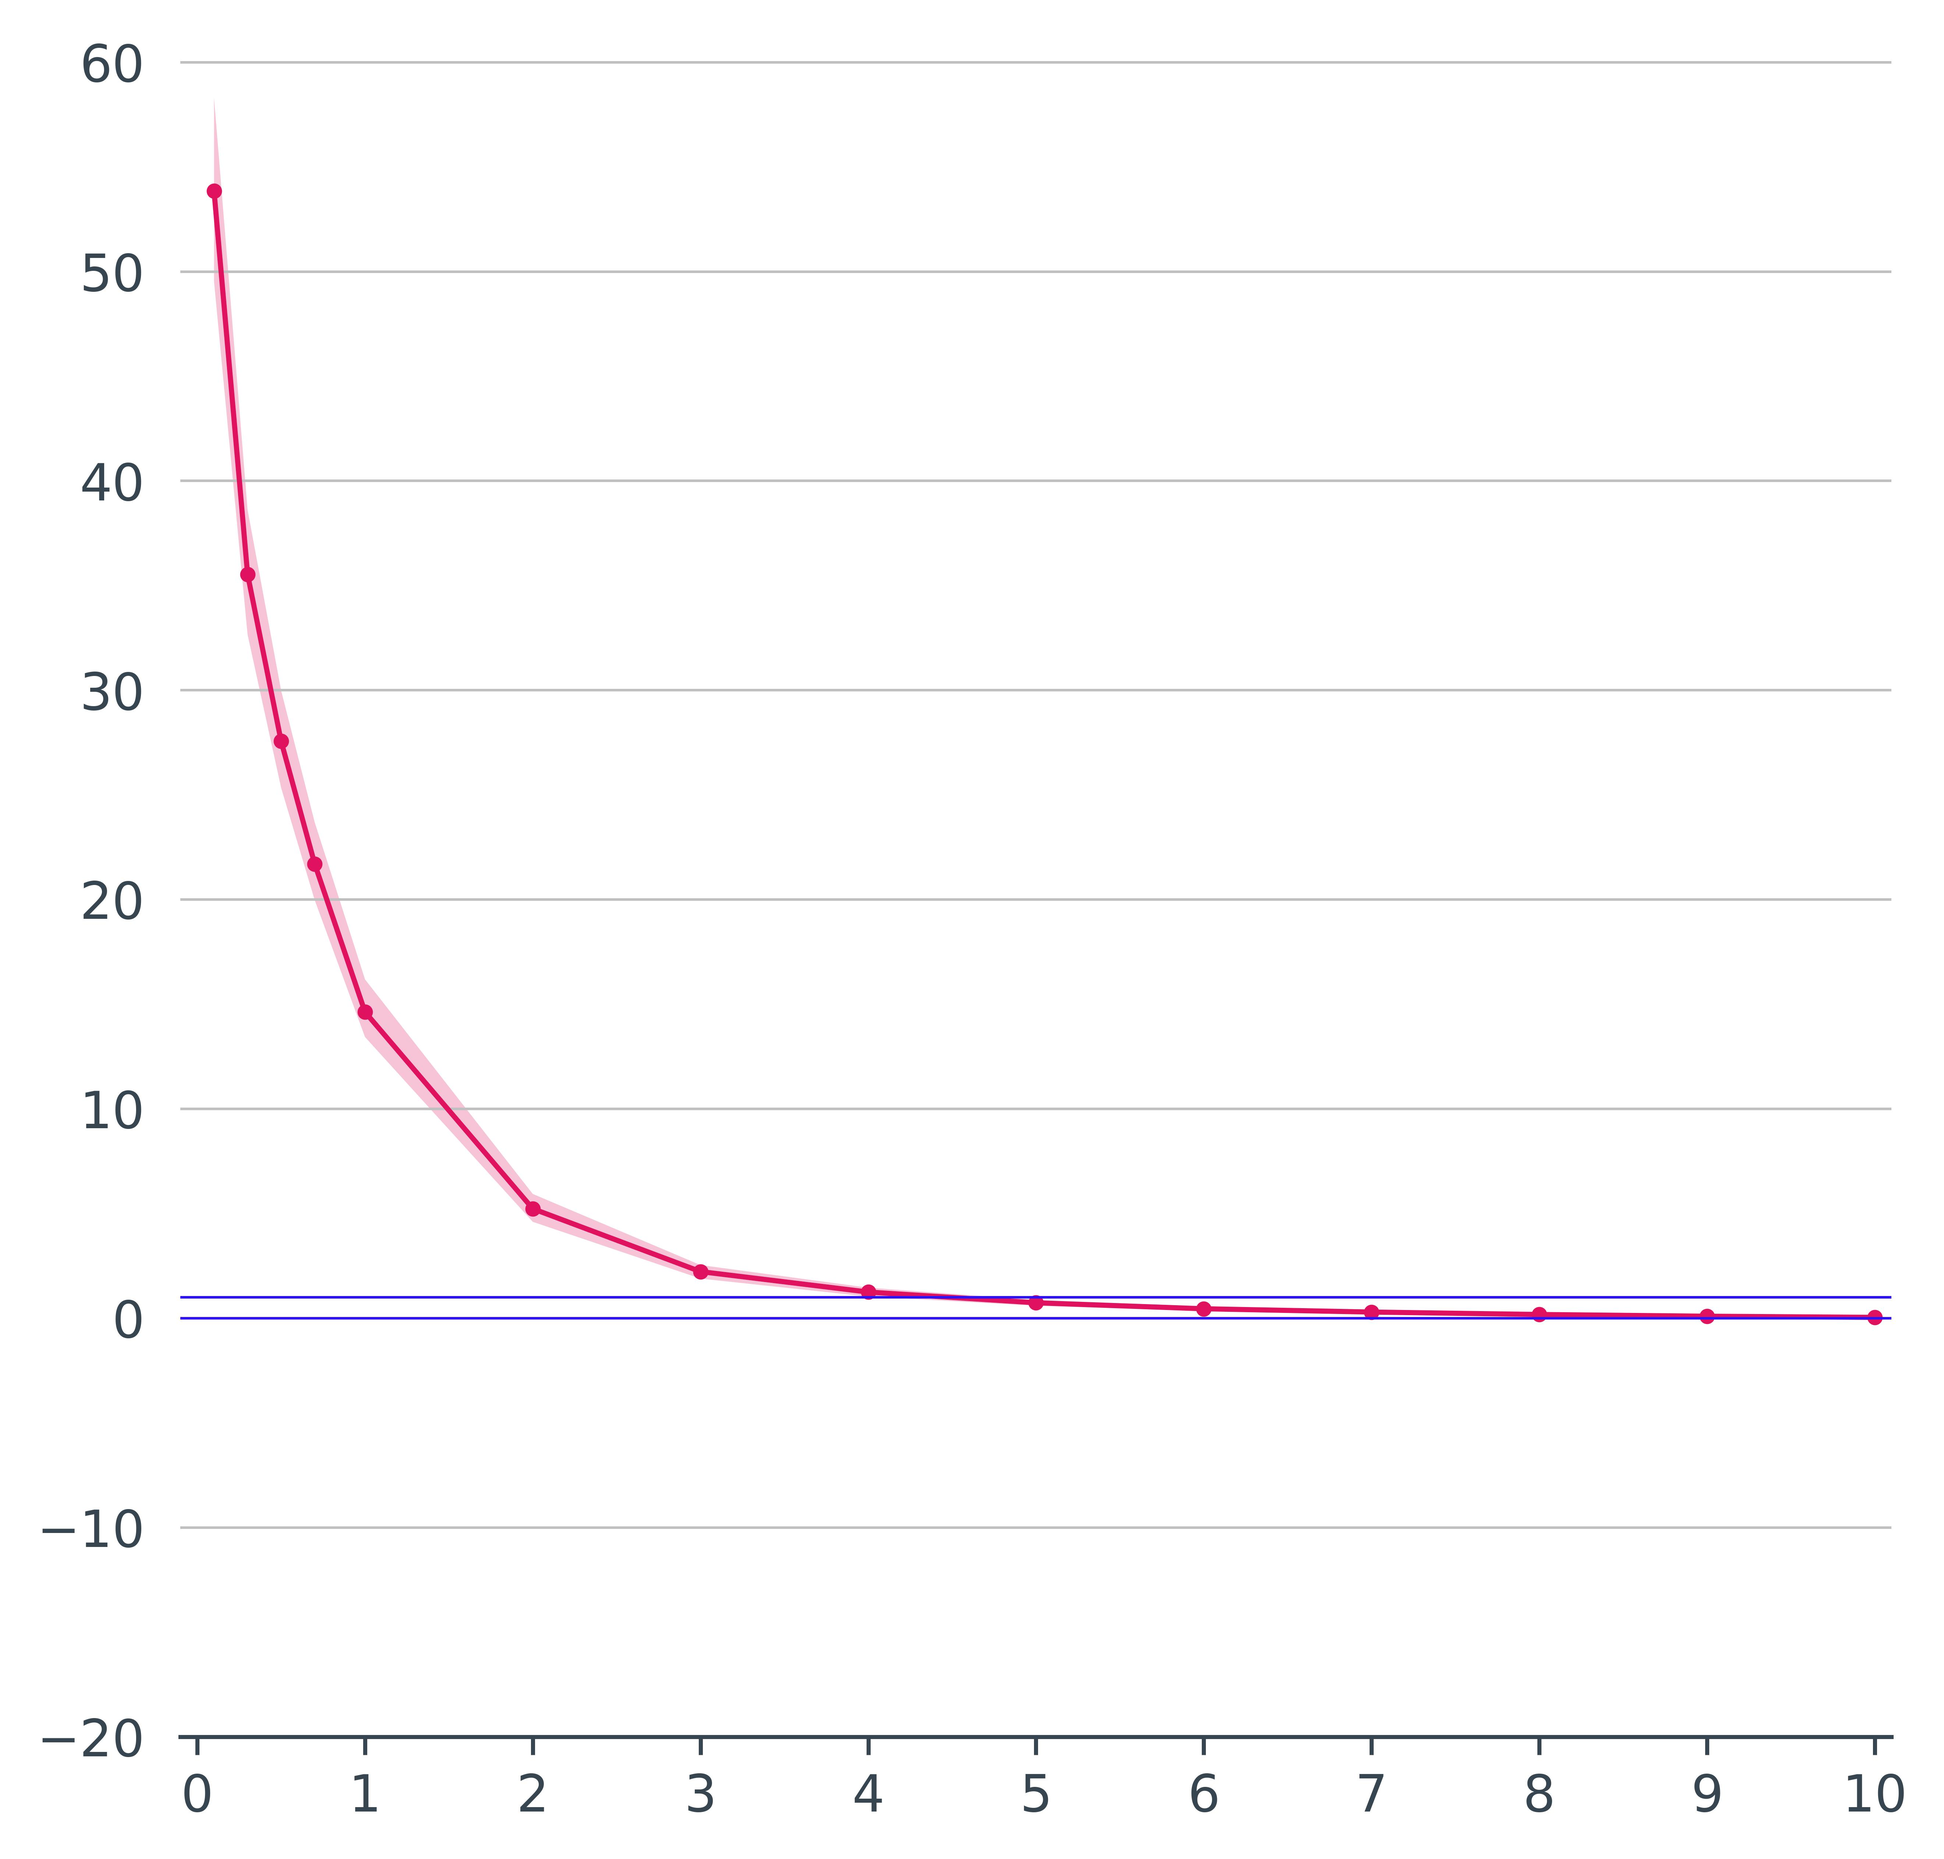
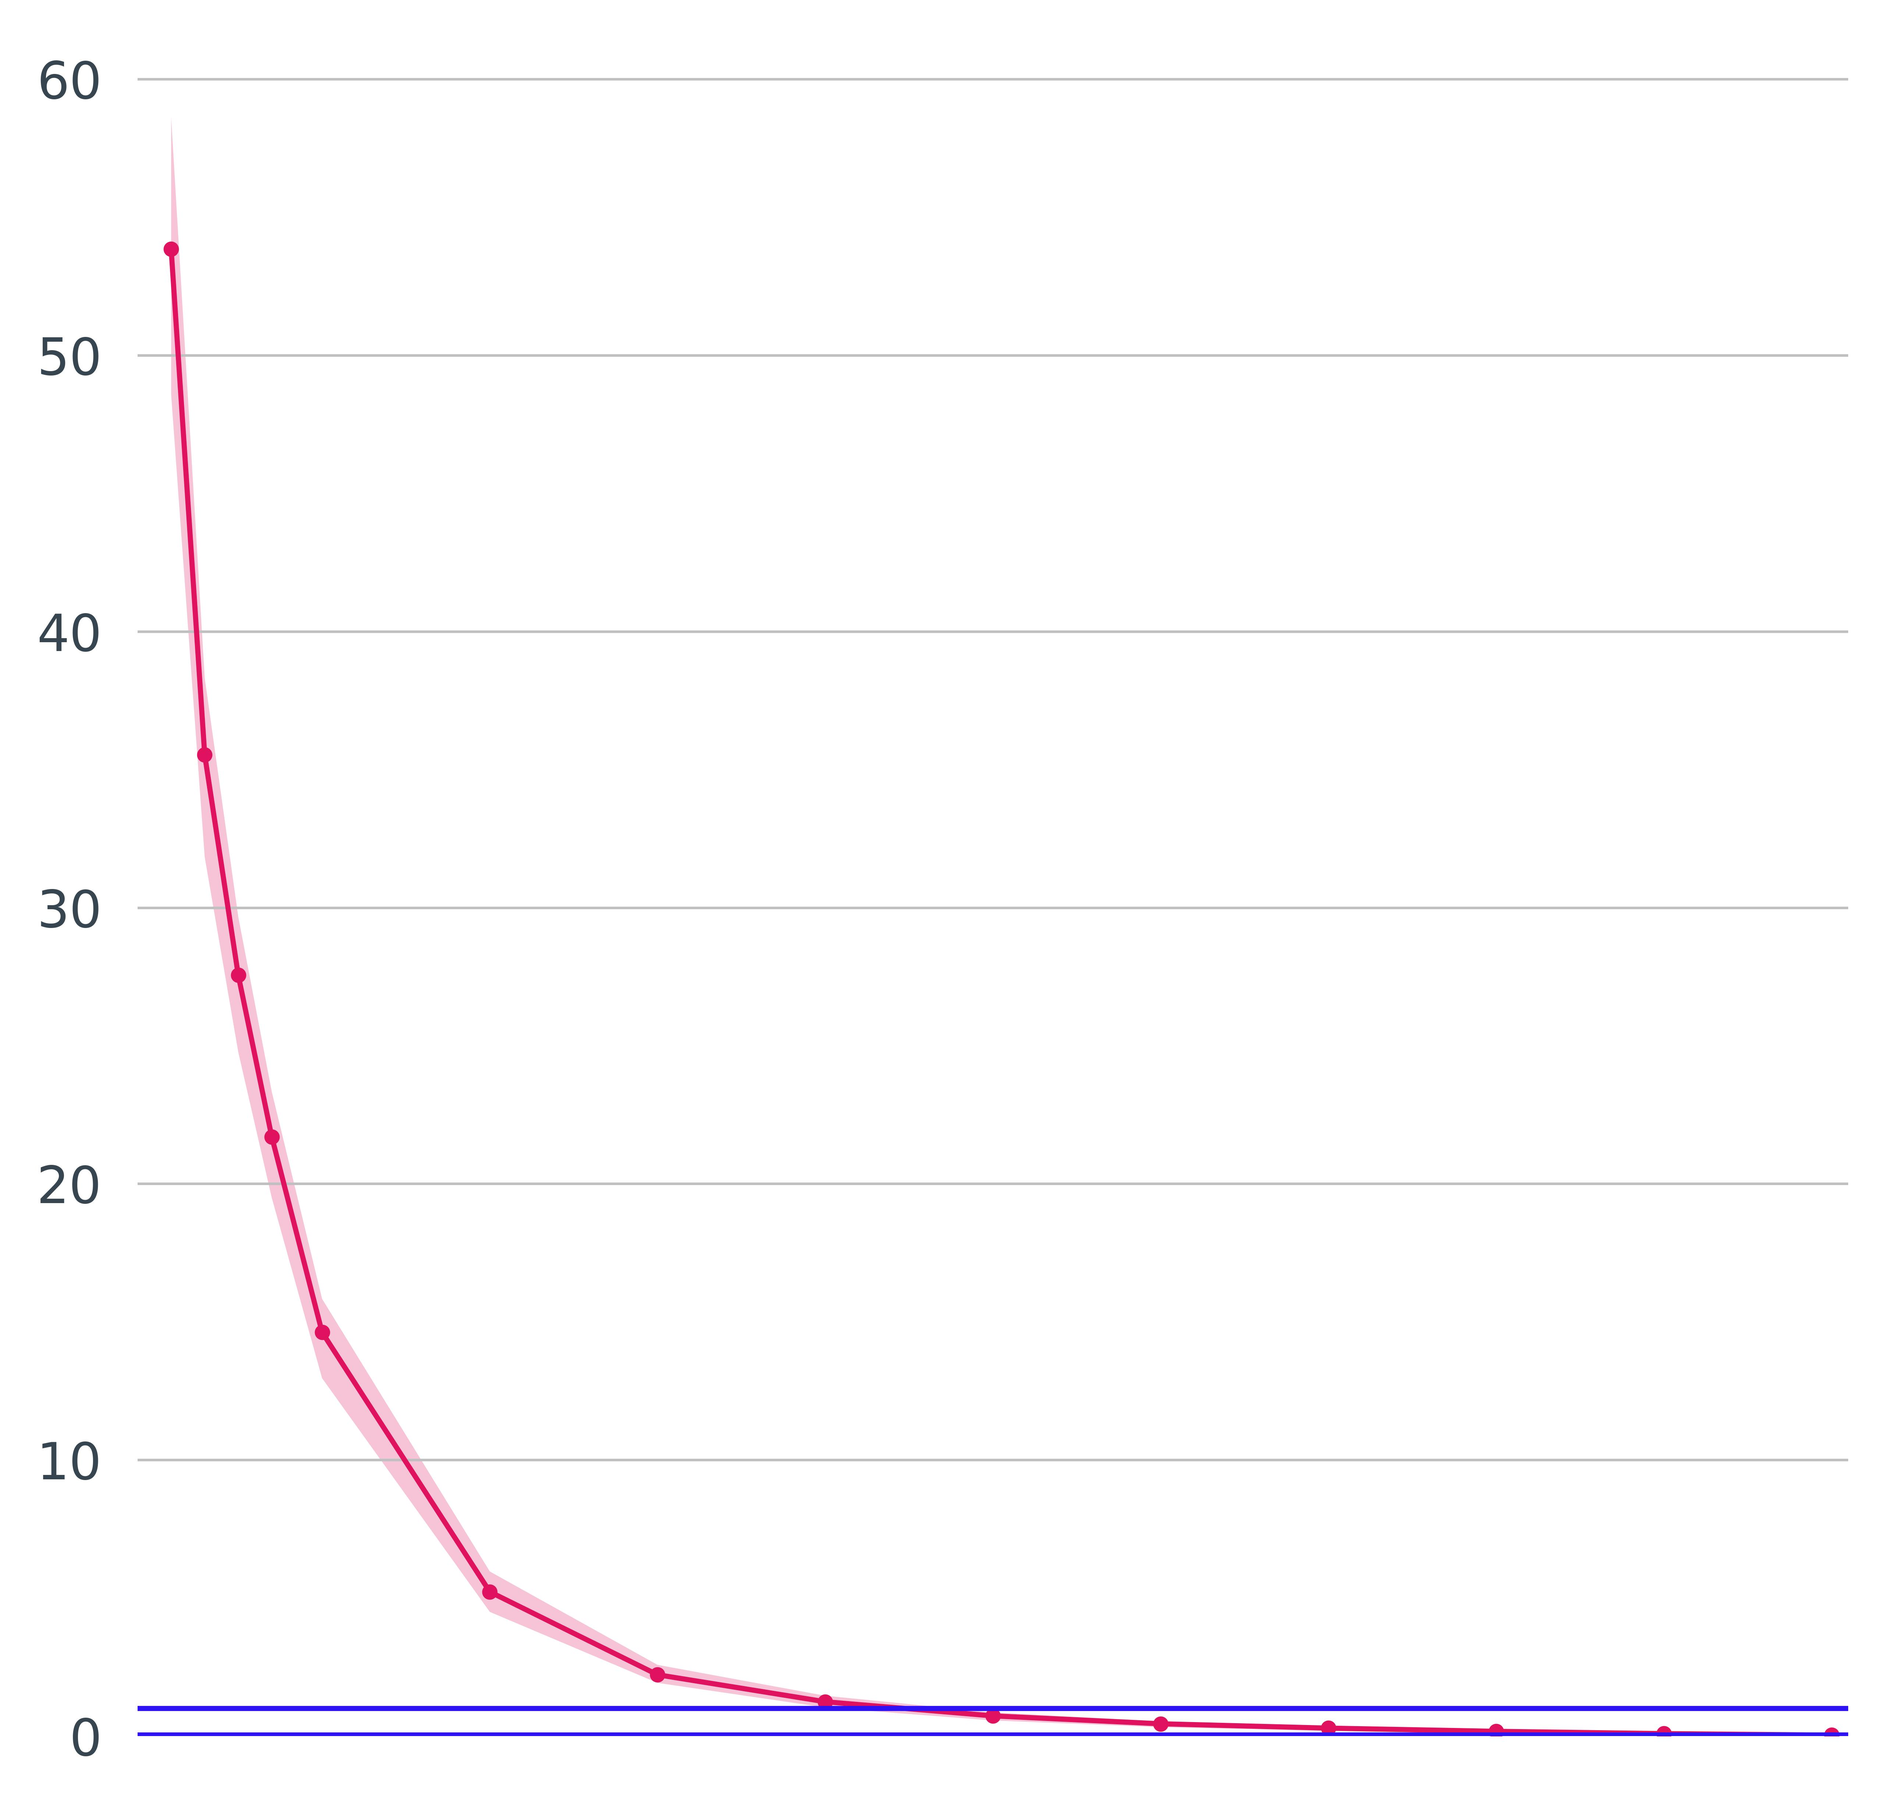
Added the computed score plots.

diff --git a/Scripts/Processed/36_Plot_Verif_Scores.py b/Scripts/Processed/36_Plot_Verif_Scores.py
@@ -11,7 +11,7 @@ from matplotlib.patches import PathPatch
 ##################################################################################################################
 # CODE DESCRIPTION
 # 36_Plot_Verif_Scores.py computes the contingency tables for specific accumulation periods.  
-# Runtime: the script can take up to 10 hours to compute in serial.
+# Runtime: the script can take up to 15 hours to compute in serial.
 
 # INPUT PARAMETERS DESCRIPTION
 # TheDateTime_Start_S (date): start date of the beginning accumulation period to consider.
@@ -31,7 +31,7 @@ TheDateTime_Start_S = datetime(2021, 1, 1, 0)
 TheDateTime_Start_F = datetime(2023, 12, 31, 12)
 Acc = 12
 Disc_Acc = 12
-Num_BS = 100
+Num_BS = 1000
 CL = 99
 Thr_list = [0.1, 0.3, 0.5, 0.7, 1, 2, 3, 4, 5, 6, 7, 8, 9, 10]
 Git_Repo = "/ec/vol/ecpoint_dev/mofp/Papers_2_Write/Use_FlashFloodsRep_4Verif_USA"
@@ -225,7 +225,7 @@ plt.xlim([-0.005, 1])
 ax.set_xticks(np.arange(0, 1.1, 0.1))
 plt.ylim([-0.005,1])
 ax.set_yticks(np.arange(0, 1.1, 0.1))
-plt.plot([0,1], [0,1], "-", color="#2F11F5", linewidth=0.5)
+plt.plot([0,1], [0,1], "-", color="#2F11F5", linewidth=1.5)
 
 ax.add_patch(patch)
 
@@ -252,19 +252,18 @@ plt.fill_between(Thr_list, lower_error, upper_error, color="#E0115F", alpha=0.25
 
 ax = plt.gca()
 ax.spines["top"].set_visible(False)
-ax.spines["bottom"].set_color("#36454F")
+ax.spines["bottom"].set_visible(False)
 ax.spines["left"].set_visible(False)
 ax.spines["right"].set_visible(False)
-plt.tick_params(left=False, right=False, top=False)
-ax.tick_params(axis="x", colors="#36454F")
+plt.tick_params(left=False, right=False, top=False, bottom=False)
 ax.tick_params(axis="y", colors="#36454F")
 
 plt.xlim([-0.1, np.max(Thr_list) + 0.1])
-ax.set_xticks(np.arange(0, np.max(Thr_list) + 1))
+ax.set_xticks([])
 
-ax.set_ylim(bottom=-20)
-plt.plot([-0.1,np.max(Thr_list) + 0.1], [1,1], "-", color="#2F11F5", linewidth=0.5)
-plt.plot([-0.1,np.max(Thr_list) + 0.1], [0,0], "-", color="#2F11F5", linewidth=0.5)
+ax.set_ylim(bottom = 0)
+plt.plot([-0.1,np.max(Thr_list) + 0.1], [1,1], "-", color="#2F11F5", linewidth=1)
+plt.plot([-0.1,np.max(Thr_list) + 0.1], [0,0], "-", color="#2F11F5", linewidth=1.5)
 
 plt.grid(axis="y", color="silver", linewidth=0.5)
 
@@ -289,18 +288,18 @@ plt.fill_between(Thr_list, lower_error, upper_error, color="#E0115F", alpha=0.25
 
 ax = plt.gca()
 ax.spines["top"].set_visible(False)
-ax.spines["bottom"].set_color("#36454F")
+ax.spines["bottom"].set_visible(False)
 ax.spines["left"].set_visible(False)
 ax.spines["right"].set_visible(False)
-plt.tick_params(left=False, right=False, top=False)
-ax.tick_params(axis="x", colors="#36454F")
+plt.tick_params(left=False, right=False, top=False, bottom=False)
 ax.tick_params(axis="y", colors="#36454F")
 
 plt.xlim([-0.1, np.max(Thr_list) + 0.1])
-ax.set_xticks(np.arange(0, np.max(Thr_list) + 1))
+ax.set_xticks([])
 
-ax.set_ylim(bottom=-1)
-plt.plot([-0.1,np.max(Thr_list) + 0.1], [0,0], "-", color="#2F11F5", linewidth=0.5)
+plt.ylim([-1, 1])
+ax.set_yticks(np.arange(-1, 1.1, 0.2))
+plt.plot([-0.1,np.max(Thr_list) + 0.1], [0,0], "-", color="#2F11F5", linewidth=1)
 
 plt.grid(axis="y", color="silver", linewidth=0.5)
 
@@ -325,21 +324,20 @@ plt.fill_between(Thr_list, lower_error, upper_error, color="#E0115F", alpha=0.25
 
 ax = plt.gca()
 ax.spines["top"].set_visible(False)
-ax.spines["bottom"].set_color("#36454F")
+ax.spines["bottom"].set_visible(False)
 ax.spines["left"].set_visible(False)
 ax.spines["right"].set_visible(False)
 plt.tick_params(left=False, right=False, top=False)
-ax.tick_params(axis="x", colors="#36454F")
 ax.tick_params(axis="y", colors="#36454F")
 
 plt.xlim([-0.1, np.max(Thr_list) + 0.1])
-ax.set_xticks(np.arange(0, np.max(Thr_list) + 1))
+ax.set_xticks([])
 
-plt.ylim([-0.49,1])
-ax.set_yticks(np.arange(-0.3, 1.1, 0.2))
-plt.plot([-0.1,np.max(Thr_list) + 0.1], [1,1], "-", color="#2F11F5", linewidth=0.5)
-plt.plot([-0.1,np.max(Thr_list) + 0.1], [0,0], "-", color="#2F11F5", linewidth=0.5)
-plt.plot([-0.1,np.max(Thr_list) + 0.1], [-1/3,-1/3], "-", color="#2F11F5", linewidth=0.5)
+plt.ylim([-1,1])
+ax.set_yticks(np.arange(-1, 1.1, 0.2))
+plt.plot([-0.1,np.max(Thr_list) + 0.1], [1,1], "-", color="#2F11F5", linewidth=1.5)
+plt.plot([-0.1,np.max(Thr_list) + 0.1], [0,0], "-", color="#2F11F5", linewidth=1)
+plt.plot([-0.1,np.max(Thr_list) + 0.1], [-1/3,-1/3], "-", color="#2F11F5", linewidth=1)
 
 plt.grid(axis="y", color="silver", linewidth=0.5)
 
@@ -364,21 +362,20 @@ plt.fill_between(Thr_list, lower_error, upper_error, color="#E0115F", alpha=0.25
 
 ax = plt.gca()
 ax.spines["top"].set_visible(False)
-ax.spines["bottom"].set_color("#36454F")
+ax.spines["bottom"].set_visible(False)
 ax.spines["left"].set_visible(False)
 ax.spines["right"].set_visible(False)
 plt.tick_params(left=False, right=False, top=False)
-ax.tick_params(axis="x", colors="#36454F")
 ax.tick_params(axis="y", colors="#36454F")
 
 plt.xlim([-0.1, np.max(Thr_list) + 0.1])
-ax.set_xticks(np.arange(0, np.max(Thr_list) + 1))
+ax.set_xticks([])
 
-plt.ylim([-1.2,1.1])
-ax.set_yticks(np.arange(-0.9, 1, 0.2))
-plt.plot([-0.1,np.max(Thr_list) + 0.1], [1,1], "-", color="#2F11F5", linewidth=0.5)
-plt.plot([-0.1,np.max(Thr_list) + 0.1], [0,0], "-", color="#2F11F5", linewidth=0.5)
-plt.plot([-0.1,np.max(Thr_list) + 0.1], [-1,-1], "-", color="#2F11F5", linewidth=0.5)
+plt.ylim([-1,1])
+ax.set_yticks(np.arange(-1, 1.1, 0.2))
+plt.plot([-0.1,np.max(Thr_list) + 0.1], [1,1], "-", color="#2F11F5", linewidth=1.5)
+plt.plot([-0.1,np.max(Thr_list) + 0.1], [0,0], "-", color="#2F11F5", linewidth=1)
+plt.plot([-0.1,np.max(Thr_list) + 0.1], [-1,-1], "-", color="#2F11F5", linewidth=2)
 
 plt.grid(axis="y", color="silver", linewidth=0.5)
 
@@ -403,21 +400,20 @@ plt.fill_between(Thr_list, lower_error, upper_error, color="#E0115F", alpha=0.25
 
 ax = plt.gca()
 ax.spines["top"].set_visible(False)
-ax.spines["bottom"].set_color("#36454F")
+ax.spines["bottom"].set_visible(False)
 ax.spines["left"].set_visible(False)
 ax.spines["right"].set_visible(False)
 plt.tick_params(left=False, right=False, top=False)
-ax.tick_params(axis="x", colors="#36454F")
 ax.tick_params(axis="y", colors="#36454F")
 
 plt.xlim([-0.1, np.max(Thr_list) + 0.1])
-ax.set_xticks(np.arange(0, np.max(Thr_list) + 1))
+ax.set_xticks([])
 
-plt.ylim([-1.2,1.1])
-ax.set_yticks(np.arange(-0.9, 1, 0.2))
-plt.plot([-0.1,np.max(Thr_list) + 0.1], [1,1], "-", color="#2F11F5", linewidth=0.5)
-plt.plot([-0.1,np.max(Thr_list) + 0.1], [0,0], "-", color="#2F11F5", linewidth=0.5)
-plt.plot([-0.1,np.max(Thr_list) + 0.1], [-1,-1], "-", color="#2F11F5", linewidth=0.5)
+plt.ylim([-1,1])
+ax.set_yticks(np.arange(-1, 1.1, 0.2))
+plt.plot([-0.1,np.max(Thr_list) + 0.1], [1,1], "-", color="#2F11F5", linewidth=1.5)
+plt.plot([-0.1,np.max(Thr_list) + 0.1], [0,0], "-", color="#2F11F5", linewidth=1)
+plt.plot([-0.1,np.max(Thr_list) + 0.1], [-1,-1], "-", color="#2F11F5", linewidth=2)
 
 plt.grid(axis="y", color="silver", linewidth=0.5)
 
@@ -442,19 +438,18 @@ plt.fill_between(Thr_list, lower_error, upper_error, color="#E0115F", alpha=0.25
 
 ax = plt.gca()
 ax.spines["top"].set_visible(False)
-ax.spines["bottom"].set_color("#36454F")
+ax.spines["bottom"].set_visible(False)
 ax.spines["left"].set_visible(False)
 ax.spines["right"].set_visible(False)
 plt.tick_params(left=False, right=False, top=False)
-ax.tick_params(axis="x", colors="#36454F")
 ax.tick_params(axis="y", colors="#36454F")
 
 plt.xlim([-0.1, np.max(Thr_list) + 0.1])
-ax.set_xticks(np.arange(0, np.max(Thr_list) + 1))
+ax.set_xticks([])
 
-ax.set_ylim(bottom=-20)
+ax.set_ylim(bottom=0)
 plt.plot([-0.1,np.max(Thr_list) + 0.1], [1,1], "-", color="#2F11F5", linewidth=0.5)
-plt.plot([-0.1,np.max(Thr_list) + 0.1], [0,0], "-", color="#2F11F5", linewidth=0.5)
+plt.plot([-0.1,np.max(Thr_list) + 0.1], [0,0], "-", color="#2F11F5", linewidth=1.5)
 
 plt.grid(axis="y", color="silver", linewidth=0.5)
 
@@ -479,21 +474,20 @@ plt.fill_between(Thr_list, lower_error, upper_error, color="#E0115F", alpha=0.25
 
 ax = plt.gca()
 ax.spines["top"].set_visible(False)
-ax.spines["bottom"].set_color("#36454F")
+ax.spines["bottom"].set_visible(False)
 ax.spines["left"].set_visible(False)
 ax.spines["right"].set_visible(False)
 plt.tick_params(left=False, right=False, top=False)
-ax.tick_params(axis="x", colors="#36454F")
 ax.tick_params(axis="y", colors="#36454F")
 
 plt.xlim([-0.1, np.max(Thr_list) + 0.1])
-ax.set_xticks(np.arange(0, np.max(Thr_list) + 1))
+ax.set_xticks([])
 
-plt.ylim([-1.2,1.1])
-ax.set_yticks(np.arange(-0.9, 1, 0.2))
-plt.plot([-0.1,np.max(Thr_list) + 0.1], [1,1], "-", color="#2F11F5", linewidth=0.5)
-plt.plot([-0.1,np.max(Thr_list) + 0.1], [0,0], "-", color="#2F11F5", linewidth=0.5)
-plt.plot([-0.1,np.max(Thr_list) + 0.1], [-1,-1], "-", color="#2F11F5", linewidth=0.5)
+plt.ylim([-1,1])
+ax.set_yticks(np.arange(-1, 1.1, 0.2))
+plt.plot([-0.1,np.max(Thr_list) + 0.1], [1,1], "-", color="#2F11F5", linewidth=1.5)
+plt.plot([-0.1,np.max(Thr_list) + 0.1], [0,0], "-", color="#2F11F5", linewidth=1)
+plt.plot([-0.1,np.max(Thr_list) + 0.1], [-1,-1], "-", color="#2F11F5", linewidth=2)
 
 plt.grid(axis="y", color="silver", linewidth=0.5)
 
